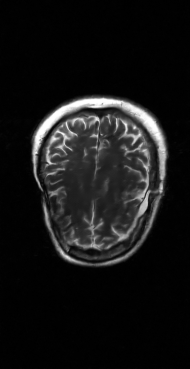
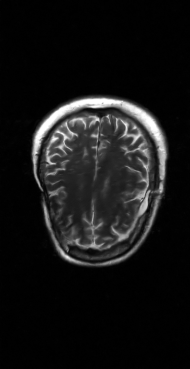
check immap 4 at a lower starting sigma_T

diff --git a/my_CDLNet/diff_model.py b/my_CDLNet/diff_model.py
@@ -400,14 +400,14 @@ class ImMAP(nn.Module):
         E = partial(mri_encoding, acceleration_map = acceleration_map, smaps = smaps)
         EH = partial(mri_decoding, acceleration_map = acceleration_map, smaps = smaps)
         # Bring up to a reasonable noise level 
-        sigma_T = 0.2
+        sigma_T = 0.1
         EHy = EH(y)
         if recon is None:
             recon = EHy[None, None]
         x_t = recon + sigma_T*torch.randn_like(recon)
 
         # Perform regular immap2.5 iterations
-        sig_t_vec = torch.linspace(sigma_T, 0.001, 20)
+        sig_t_vec = torch.linspace(sigma_T, 0.001, 10)
         sigma_t = 1
         with torch.no_grad():
             while sigma_t > self.sigma_L:
